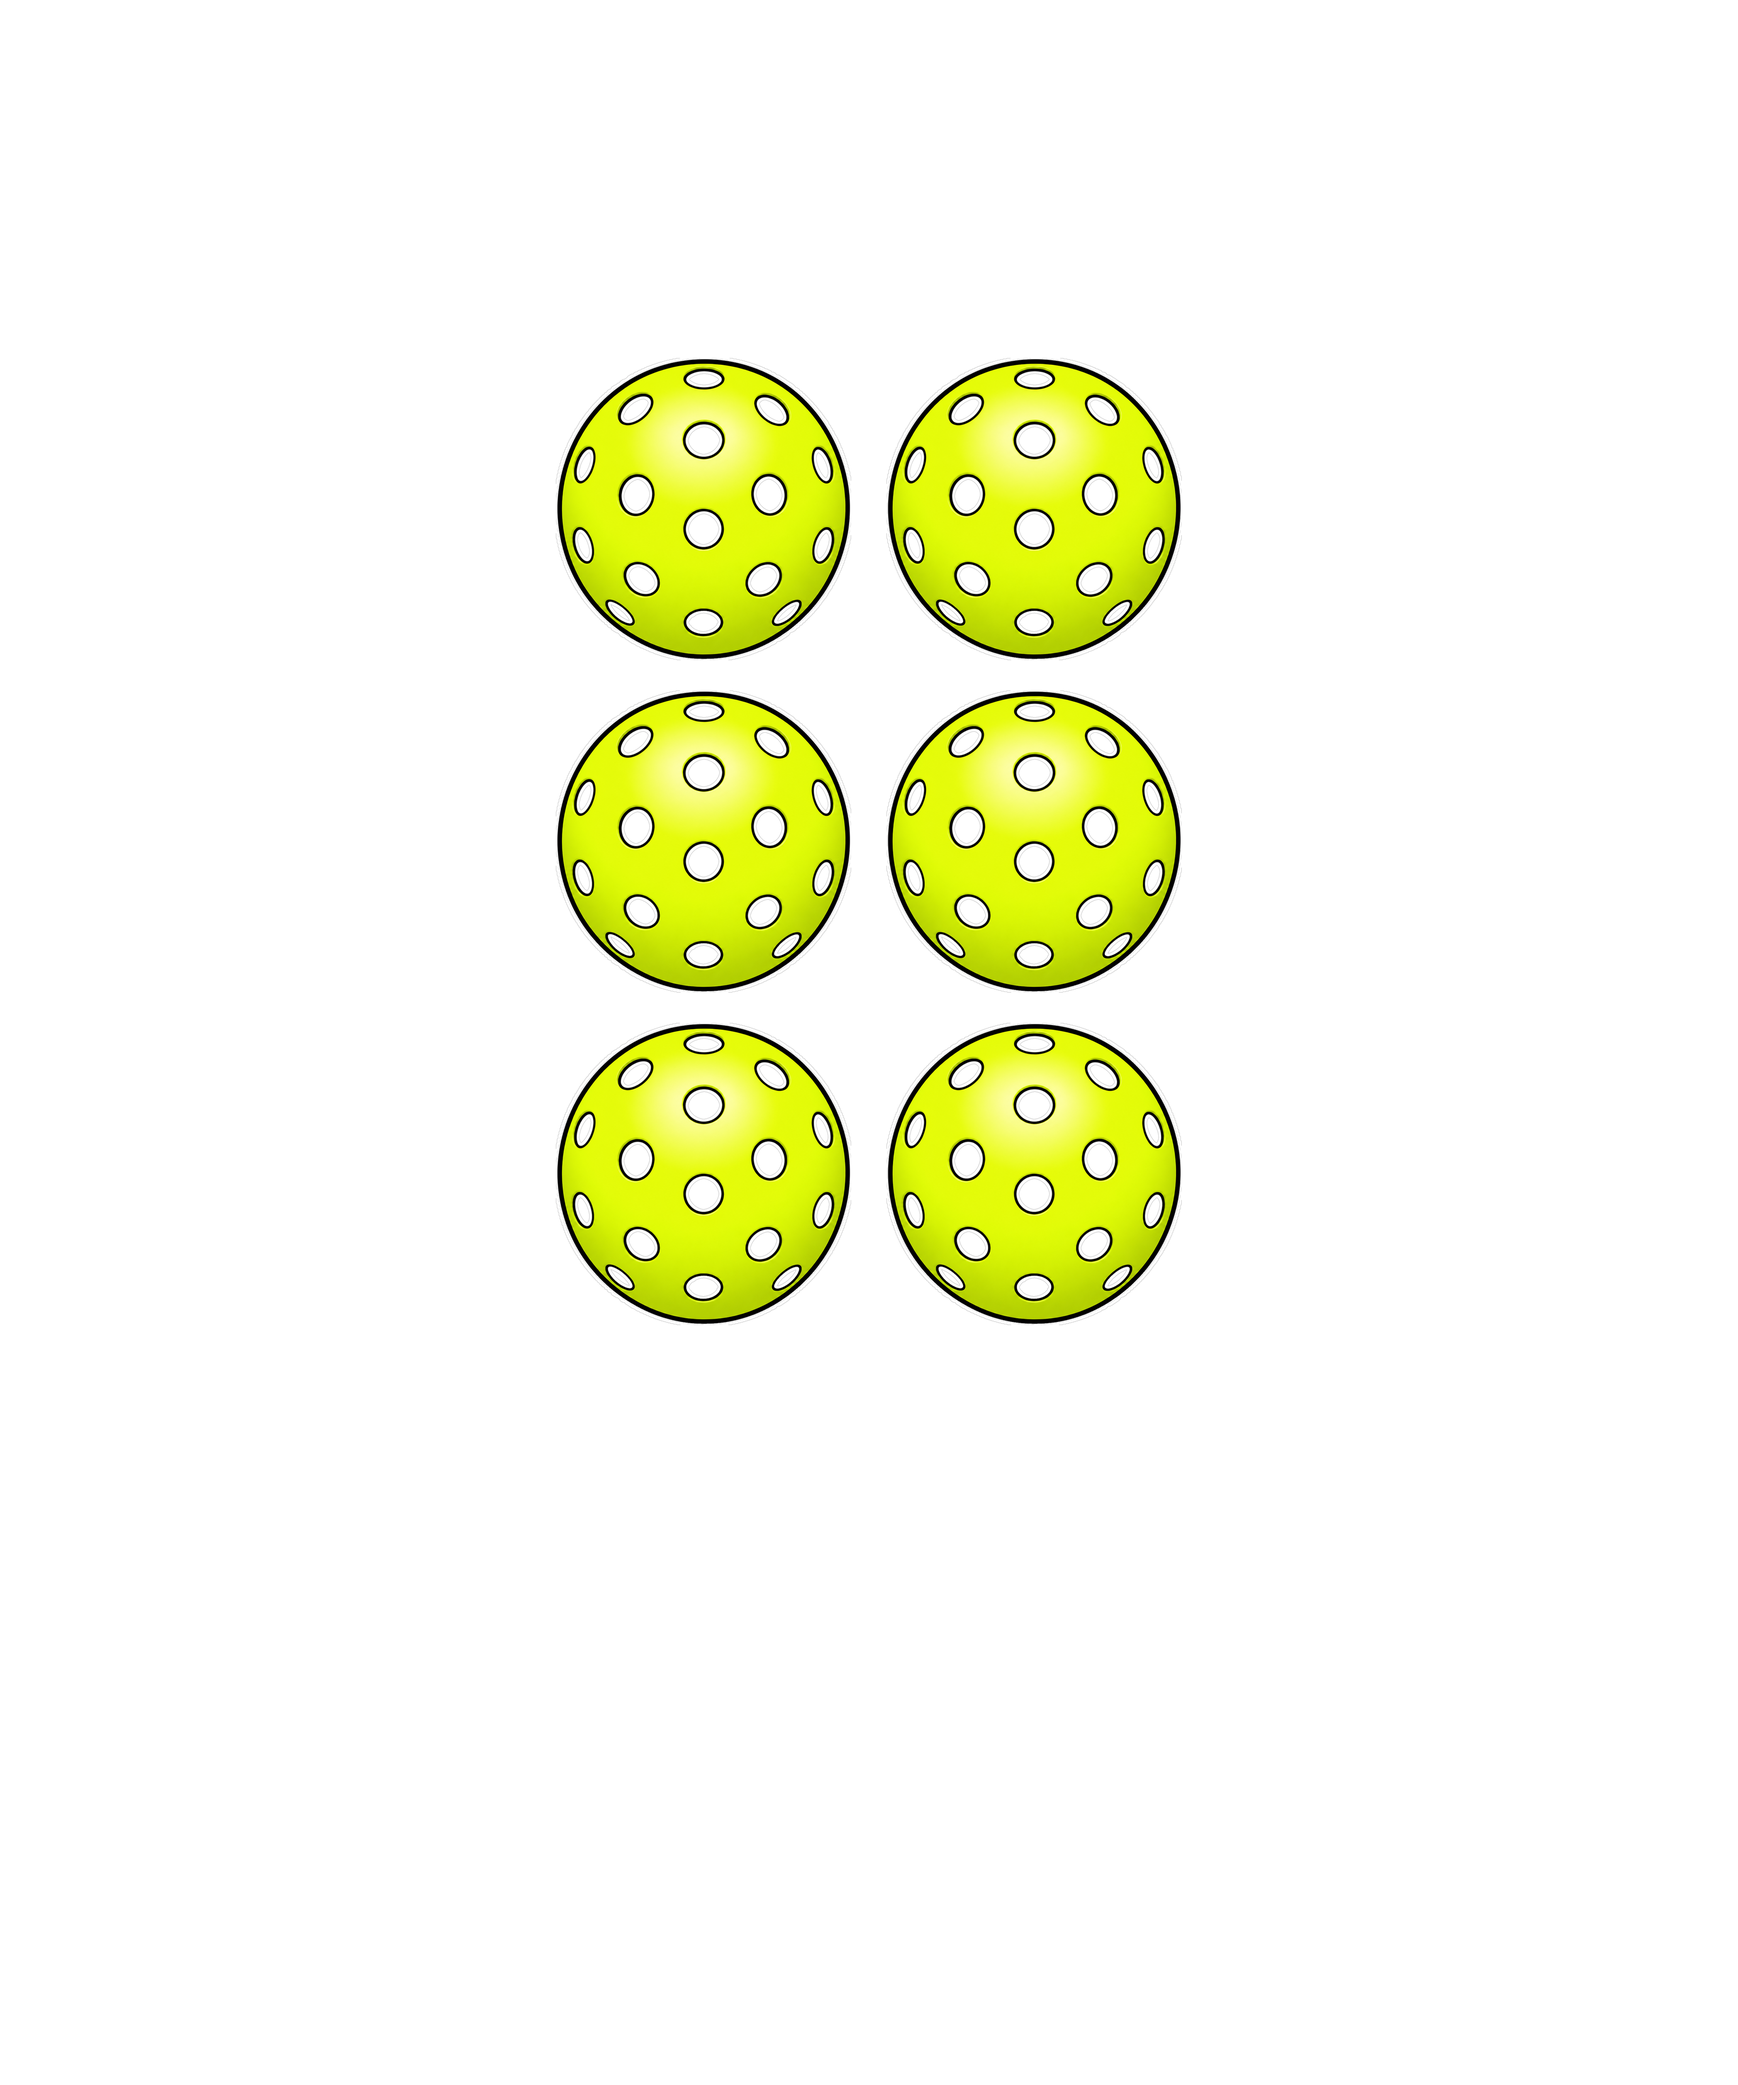
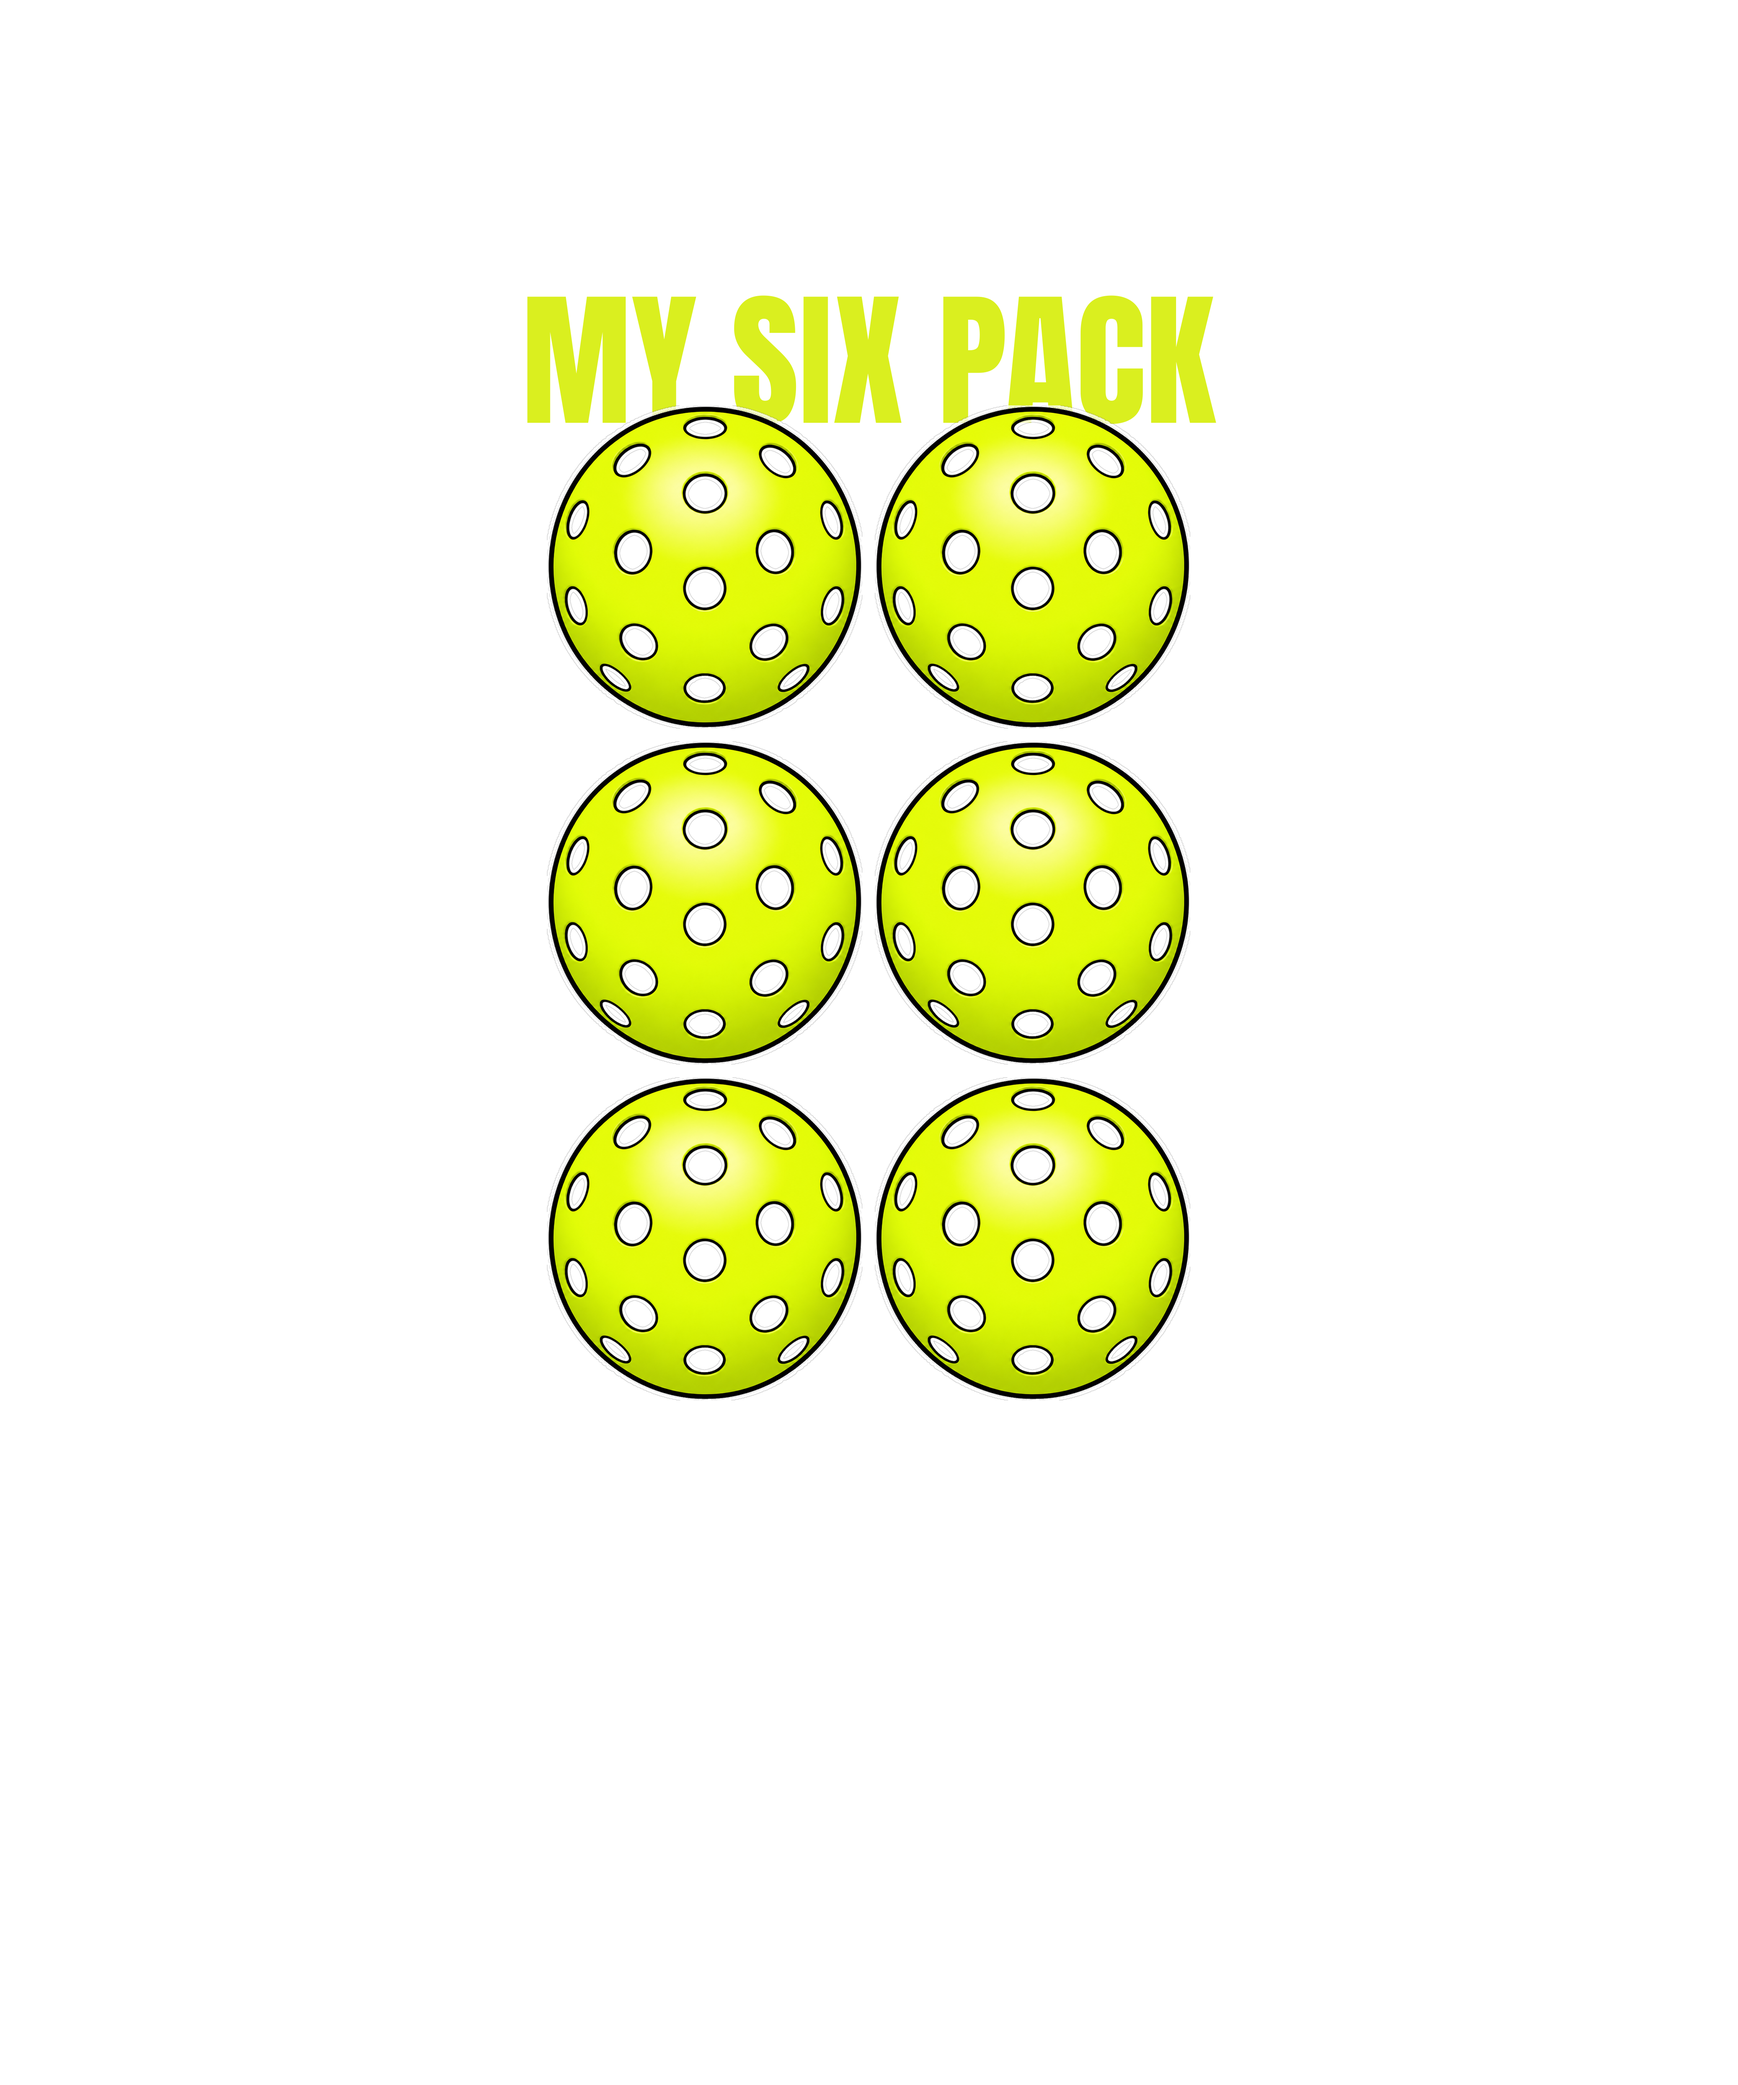
Tighten Six Pack v2: lime title, denser abs grid, no subtitle.
Printify AI failed the 2x3 layout; keep local compose as source of truth.

Changed region(s): [[0.28, 0.1244, 0.7156, 0.6844]]

diff --git a/scripts/compose_pickleball_six_pack.py b/scripts/compose_pickleball_six_pack.py
@@ -4,10 +4,10 @@
 Body-joke parallel to Eyes Up Here: six pickleballs as abs.
 Wave 2 Design C — original label MY SIX PACK (not CHECK OUT MY SIX PACK clone).
 
-Layout:
-  MY SIX PACK     (white Anton, above)
-  2×3 ball grid   (torso/abs read — same ball asset as Eyes Up Here)
-  PICKLEBALLS     (small white, below)
+v2 layout (Printify AI failed abs grid — keep local compose):
+  MY SIX PACK     (lime Anton, above — DINKING pop)
+  2×3 ball grid   (tight torso/abs read — same ball as Eyes Up Here)
+  no bottom label (cleaner thumb, like Eyes Up Here)
 """
 
 from __future__ import annotations
@@ -21,6 +21,8 @@ from PIL import Image, ImageDraw, ImageFont
 ROOT = Path(__file__).resolve().parents[1]
 CANVAS = (4500, 5400)
 WHITE = (255, 255, 255, 255)
+# Match DINKING / IT WAS IN lime
+LIME = (218, 239, 31, 255)
 FONT_PATH = ROOT / "designs/fonts/Anton-Regular.ttf"
 BALL_PATH = ROOT / "designs/pickleball/pickleball_ball_transparent_holes.png"
 MASTER_OUT = ROOT / "designs/pickleball/pickleball_six_pack_master.png"
@@ -56,38 +58,32 @@ def compose() -> Path:
     canvas = Image.new("RGBA", CANVAS, (0, 0, 0, 0))
     draw = ImageDraw.Draw(canvas)
 
-    font_hero = load_font(340)
-    font_small = load_font(140)
-
+    font_hero = load_font(380)
     line1 = "MY SIX PACK"
-    line2 = "PICKLEBALLS"
-
     w1, h1 = text_size(draw, line1, font_hero)
-    w2, h2 = text_size(draw, line2, font_small)
 
-    # Ball size — chunky like Eyes Up Here pair, fills abs zone
+    # Slightly larger balls, much tighter gaps → abs block not sticker sheet
     ball_src = Image.open(BALL_PATH).convert("RGBA")
-    ball_h = int(H * 0.145)
+    ball_h = int(H * 0.155)
     scale = ball_h / ball_src.height
     ball = ball_src.resize(
         (max(1, int(ball_src.width * scale)), ball_h), Image.Resampling.LANCZOS
     )
-    gap_x = int(ball.width * 0.12)
-    gap_y = int(ball.height * 0.10)
+    gap_x = int(ball.width * 0.04)
+    gap_y = int(ball.height * 0.04)
     grid_w = COLS * ball.width + (COLS - 1) * gap_x
     grid_h = ROWS * ball.height + (ROWS - 1) * gap_y
 
-    gap_after_title = 90
-    gap_before_sub = 70
-    total_h = h1 + gap_after_title + grid_h + gap_before_sub + h2
+    gap_after_title = 70
+    total_h = h1 + gap_after_title + grid_h
 
     # Chest-centered stack (same idea as Eyes Up Here)
-    top = int(H * 0.30 - total_h / 2)
-    top = max(int(H * 0.10), top)
+    top = int(H * 0.32 - total_h / 2)
+    top = max(int(H * 0.12), top)
     cx = W // 2
 
     y = top
-    draw.text((cx - w1 // 2, y), line1, font=font_hero, fill=WHITE)
+    draw.text((cx - w1 // 2, y), line1, font=font_hero, fill=LIME)
     y += h1 + gap_after_title
 
     grid_left = cx - grid_w // 2
@@ -97,9 +93,6 @@ def compose() -> Path:
             bx = grid_left + col * (ball.width + gap_x) + ball.width // 2
             by = grid_top + row * (ball.height + gap_y) + ball.height // 2
             paste_centered(canvas, ball, bx, by)
-
-    y = grid_top + grid_h + gap_before_sub
-    draw.text((cx - w2 // 2, y), line2, font=font_small, fill=WHITE)
 
     MASTER_OUT.parent.mkdir(parents=True, exist_ok=True)
     canvas.save(MASTER_OUT, format="PNG", optimize=True)

diff --git a/designs/listings/PICKLEBALL_SIX_PACK.md b/designs/listings/PICKLEBALL_SIX_PACK.md
@@ -12,12 +12,13 @@
 - Font: `designs/fonts/Anton-Regular.ttf`
 
 ## Design notes
-- White **MY SIX PACK** above
-- **2×3** grid of pickleballs (abs/torso read — same ball asset as Eyes Up Here)
-- Small white **PICKLEBALLS** below
-- Original label (not “CHECK OUT MY SIX PACK” clone layout)
-- Dark shirts only (white type + lime balls)
-- Regenerate: `python3 scripts/compose_pickleball_six_pack.py` (uses `--no-knock-out-counters`)
+- Lime **MY SIX PACK** above (same pop as DINKING)
+- **Tight 2×3** pickleball grid (abs/torso read — same ball as Eyes Up Here)
+- **No** bottom PICKLEBALLS label (cleaner thumb)
+- Original label (not “CHECK OUT MY SIX PACK” clone)
+- Dark shirts only
+- **Do not use Printify AI for this** — it fails the 2×3 abs grid
+- Regenerate: `python3 scripts/compose_pickleball_six_pack.py`
 
 ## eBay title
 Funny Pickleball Six Pack T-Shirt Abs Joke Tee Sports Gift
